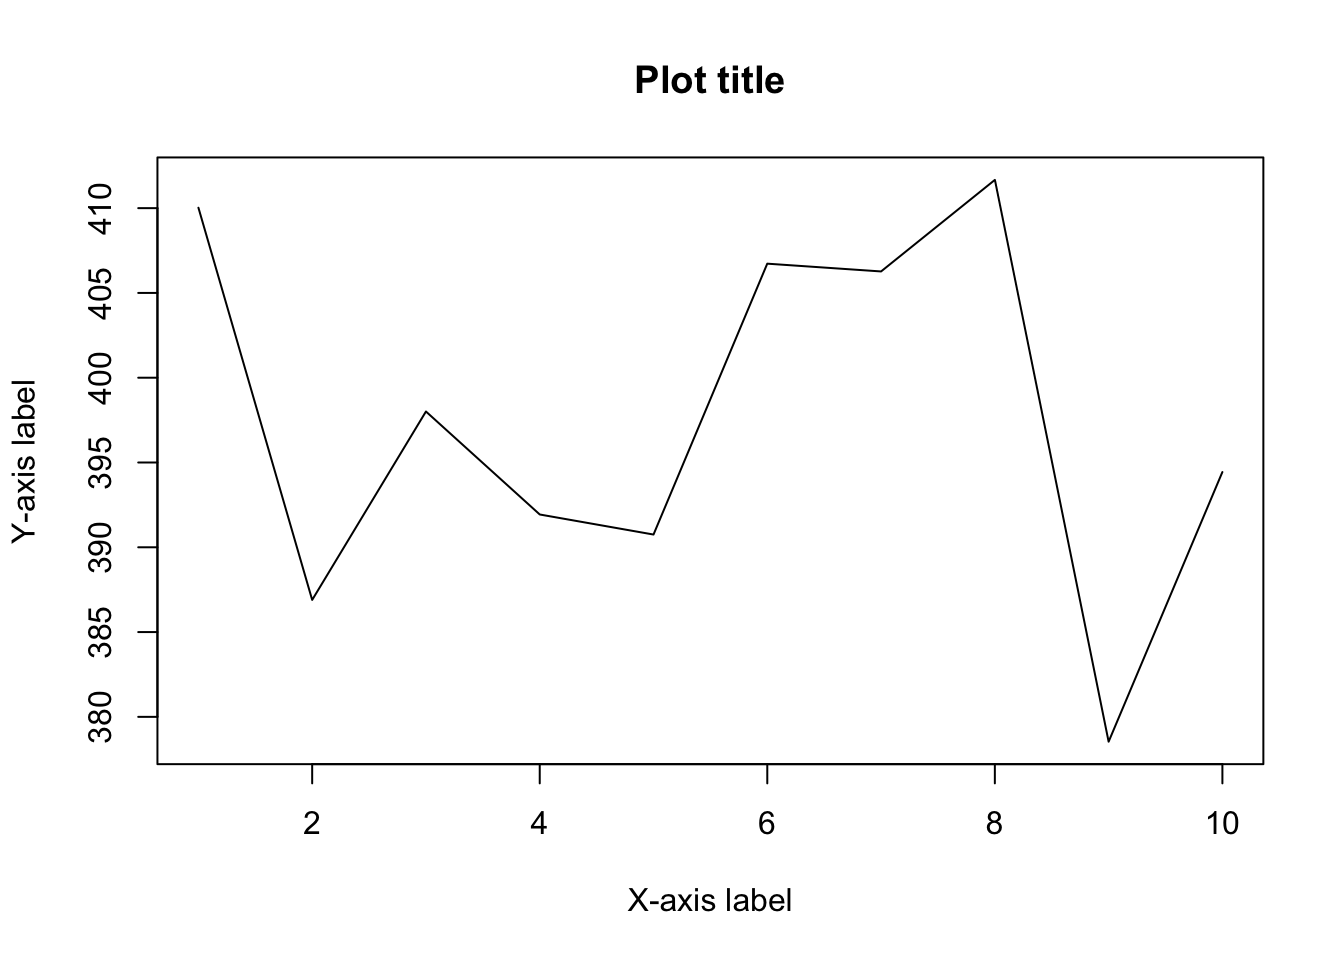
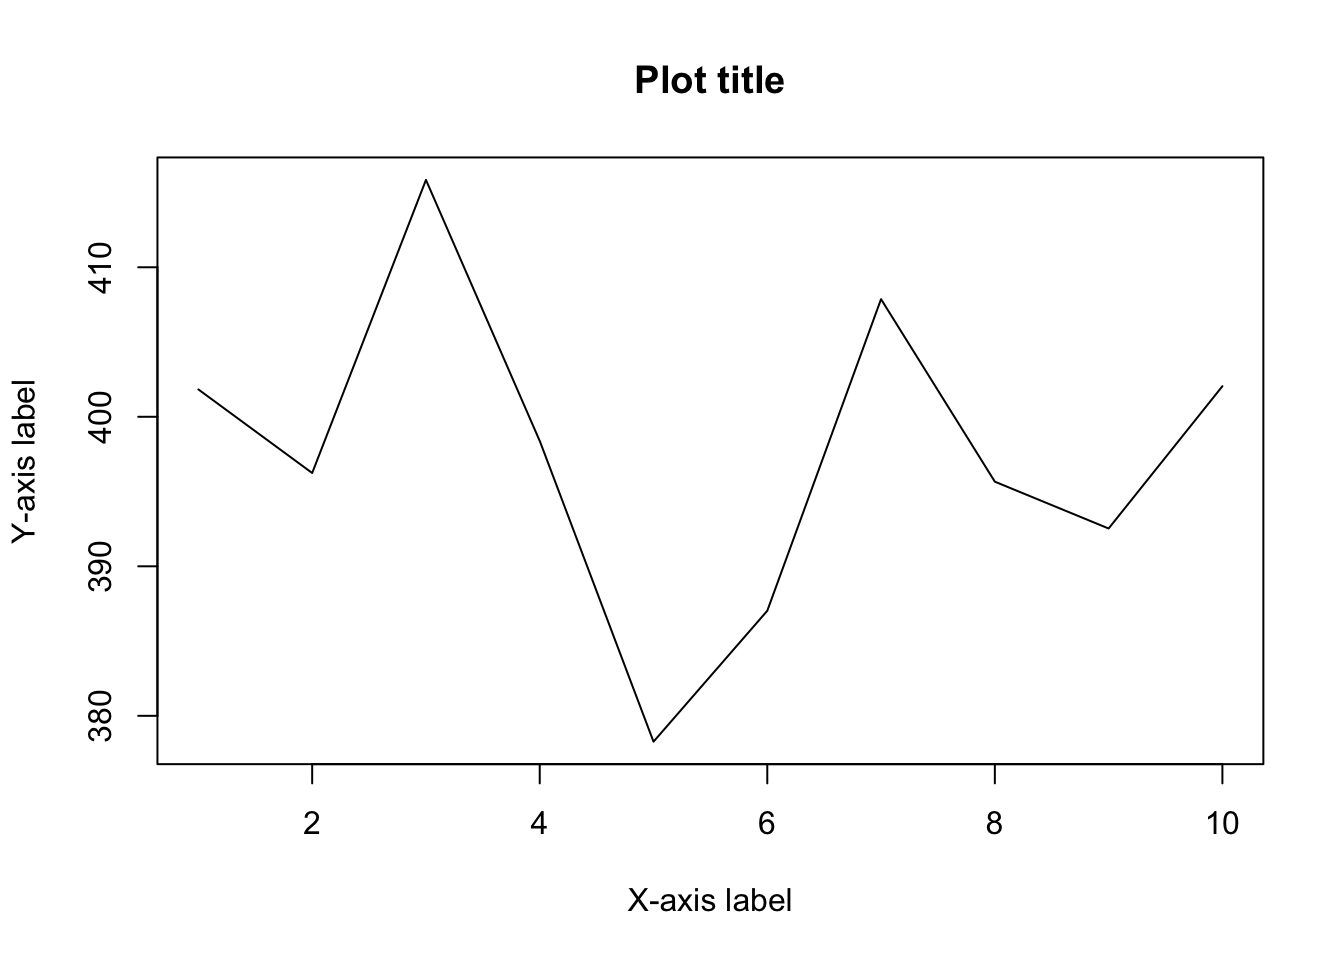
edit posts

diff --git a/content/blog/how-to-install-r-and-rstudio.html b/content/blog/how-to-install-r-and-rstudio.html
@@ -125,7 +125,8 @@ output:
 </div>
 <div id="examples-of-code" class="section level1">
 <h1>Examples of code</h1>
-<p>Now that you have installed R and RStudio and you know its main components, below are some examples of basic code. More advanced code and analyses are presented in <a href="/tags/R/">other articles about R</a>.</p>
+<p>Now that you have installed R and RStudio and you know its main components, below are some examples of basic code.</p>
+<p>More advanced code and analyses are presented in <a href="/tags/R/">other articles about R</a>, and in particular in this article about <a href="/blog/data-manipulation-in-r/">data manipulation in R</a>.</p>
 <div id="calculator" class="section level2">
 <h2>Calculator</h2>
 <p>Compute <span class="math inline">\(5*5\)</span></p>
@@ -189,10 +190,10 @@ my_mat2</code></pre>
 <pre class="r"><code>my_vec &lt;- rnorm(10, mean = 400, sd = 10)
 # Display only the first 5 values:
 head(my_vec, 5)</code></pre>
-<pre><code>## [1] 410.0248 386.8963 398.0069 391.9353 390.7513</code></pre>
+<pre><code>## [1] 401.8291 396.2402 415.8425 398.3830 378.2698</code></pre>
 <pre class="r"><code># Display only the last 5 values:
 tail(my_vec, 5)</code></pre>
-<pre><code>## [1] 406.7265 406.2668 411.6650 378.5354 394.4368</code></pre>
+<pre><code>## [1] 387.0264 407.8640 395.6606 392.5291 402.0448</code></pre>
 <p>You will have different values than mines due to the fact that they are randomly generated. If you want to make sure to have always the same random values, use <code>set.seed()</code> (with any numeric inside the brackets). For instance, with the following code, you should have the exact same values, no matter where and when you run it:</p>
 <pre class="r"><code>set.seed(42)
 rnorm(3, mean = 10, sd = 2)</code></pre>
@@ -207,7 +208,7 @@ rnorm(3, mean = 10, sd = 2)</code></pre>
   xlab = &quot;X-axis label&quot;
 )</code></pre>
 <p><img src="/blog/how-to-install-r-and-rstudio_files/figure-html/unnamed-chunk-12-1.png" width="100%" style="display: block; margin: auto;" /></p>
-<p>This is only a very limited introduction to the possibilities of RStudio. If you want to learn more, I recommend that you read other <a href="/tags/R/">articles related to R</a>, starting with <a href="/blog/how-to-import-an-excel-file-in-rstudio/">how to import an Excel file</a> or <a href="/blog/data-manipulation-in-r/">how to manipulate a dataset</a>.</p>
+<p>This is only a very limited introduction to the possibilities of RStudio. If you want to learn more, I recommend that you read other <a href="/tags/R/">articles related to R</a>, starting with <a href="/blog/how-to-import-an-excel-file-in-rstudio/">how to import an Excel file</a> or <a href="/blog/data-manipulation-in-r/">how to manipulate a dataset in R</a>.</p>
 <p>Thanks for reading. I hope this article helped you to install R and RStudio.</p>
 <p>As always, if you have a question or a suggestion related to the topic covered in this article, please add it as a comment so other readers can benefit from the discussion.</p>
 </div>

diff --git a/content/blog/how-to-import-an-excel-file-in-rstudio.html b/content/blog/how-to-import-an-excel-file-in-rstudio.html
@@ -196,7 +196,7 @@ dat &lt;- read.spss(
   to.data.frame = TRUE
 )</code></pre>
 <p>The <code>read.spss()</code> function outputs a data table which retrieves all the characteristics of the .sav file, including the names given for the different levels of the categorical variables and the characteristics of the variables. If you need more information about this command, see the help documentation (<code>library(foreign)</code> then <code>?read.spss</code>).</p>
-<p>Thanks for reading. I hope this article helped you to import an Excel file in RStudio. If your dataset is correctly imported, learn <a href="/blog/data-manipulation-in-r/">how to manipule it</a>.</p>
+<p>Thanks for reading. I hope this article helped you to import an Excel file in RStudio. Now that your dataset is correctly imported, learn <a href="/blog/data-manipulation-in-r/">how to manipule it</a> or how to perform <a href="/blog/descriptive-statistics-in-r/">descriptive statistics in R</a>.</p>
 <p>As always, if you have a question or a suggestion related to the topic covered in this article, please add it as a comment so other readers can benefit from the discussion.</p>
 </div>
 <div class="footnotes">
